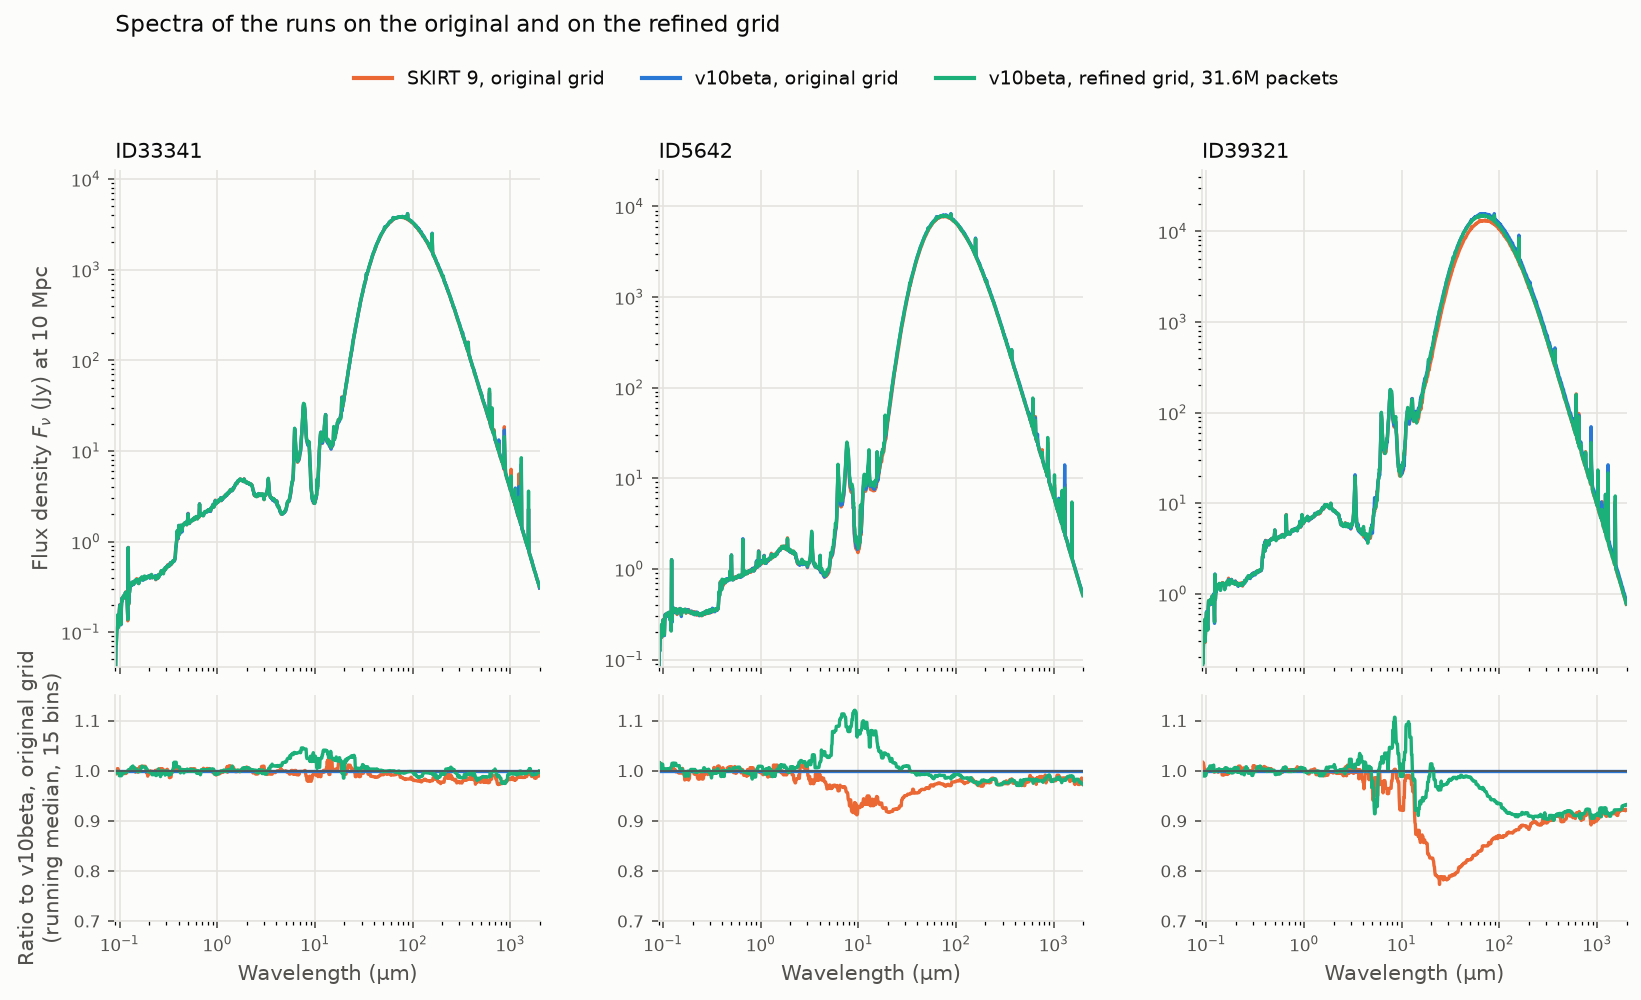
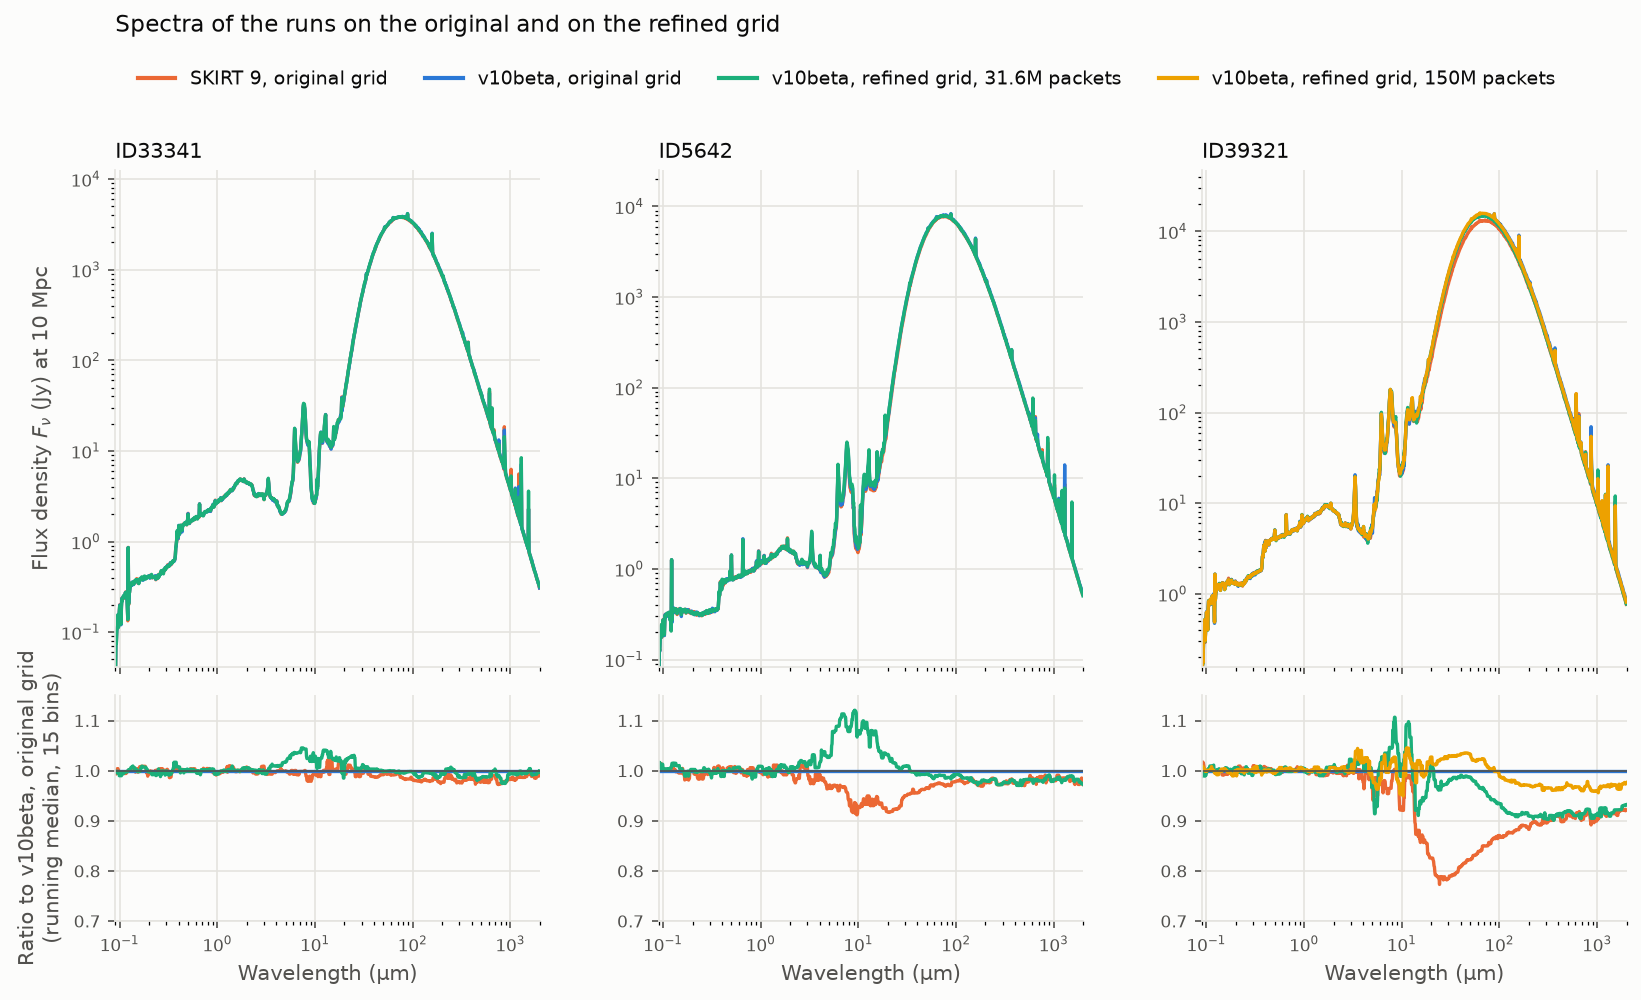
Add the finished 150-million-packet run to the dust self-heating note
The run of ID39321 on the refined grid with 150 million photon packets per
iteration ended after 60 iterations without convergence: its deficit levels
off at 1.3%, a bias rather than slow convergence. The Results chapter gives
the final values, an extrapolation of the packets needed, the dust
temperatures, and the finding that the spectrum along the line of sight hides
the deficit; both figures are regenerated. The recommended settings and the
open question on averaging the tallies are updated accordingly.

diff --git a/dust-self-heating/04-results.md b/dust-self-heating/04-results.md
@@ -178,14 +178,18 @@ photon packets confirm that the number of packets per cell sets the level of thi
 
 With too few packets per cell, the deficit levels off while the secondary change becomes small, and
 the absorbed secondary luminosity settles too low: on the refined grid, it is still rising steeply
-with the number of packets at 150 million. On the original grid, 16 packets per cell suffice to
-converge, in 22 iterations, with an absorbed secondary luminosity 6% below that of the run with 160
-packets per cell. The refined grid needs more packets per cell than the original grid: with 17
-packets per cell, its deficit still levels off at 1.4%. The runs of ID33341 and ID5642 on the
-refined grid converge with some 9 packets per cell, but their absorbed secondary luminosity is 11%
-and 25% below that of the original grid; how much of this difference stems from the resolution
-and how much from the number of packets has not been determined. The run with 150 million packets
-was still running when this was written; its values are those of its first 34 iterations.
+with the number of packets at 150 million. The plateau is a bias rather than slow convergence:
+with 150 million packets, the mean deficit is 1.36%, 1.32%, and 1.30% over iterations 16–30, 31–45,
+and 46–60, while the absorbed secondary luminosity changes by less than 0.1% per iteration. Between
+the runs, the plateau falls by a factor of 2 to 2.4 for every threefold increase of the number of
+packets; extrapolating the last two runs, a plateau below 1% would take some 250 million packets,
+about 30 per cell. On the original grid, 16 packets per cell suffice to converge, in 22
+iterations; after 30 iterations, the absorbed secondary luminosity is 6% below that of the run
+with 160 packets per cell. The refined grid thus needs more packets per cell than the original
+grid. The runs of ID33341 and ID5642 on the refined grid converge with some 9 packets per cell,
+but their absorbed secondary luminosity is 11% and 25% below that of the original grid; how much of
+this difference stems from the resolution and how much from the number of packets has not been
+determined.
 
 ### Spectra
 
@@ -196,8 +200,20 @@ original grid, the run on the refined grid changes the spectrum between 5 and 10
 1% in total for ID33341 and ID5642, with up to 4% and 10% more emission in the mid-infrared, around
 10 µm, presumably from warm dust near the sources that the original grid averages over larger
 cells. For ID39321, the run with 31.6 million packets is 3.4% fainter between 5 and 1000 µm, mostly
-beyond 100 µm, which reflects its deficit of about 5%. The figure will be updated with the run with
-150 million packets.
+beyond 100 µm, which reflects its deficit of about 5%. The run with 150 million packets is 1.7%
+brighter: 2 to 3% brighter between 20 and 70 µm, and 1 to 4% fainter beyond 100 µm. The emission
+beyond 100 µm follows the temperature of the bulk of the dust: the mass-weighted mean of the
+indicative dust temperature is 70.9 K and 74.3 K for the runs with 31.6 and 150 million packets,
+against 76.2 K on the original grid.
+
+The spectrum of ID39321 does not reveal the deficit of the runs on the refined grid. Over all
+directions, the escaping dust luminosity of the run with 150 million packets is 1.8% below that of
+the run on the original grid, in line with the difference of their deficits, whereas the flux
+between 5 and 1000 µm along the line of sight is 1.7% higher; for the run with 31.6 million
+packets, both are lower, by 5.7% and 3.4%. The refined grid apparently sends a larger share of the
+dust emission along the z axis, the axis with the lowest optical depth of this galaxy. For ID33341
+and ID5642, the two ratios agree within 0.4%. The luminosity deficit, logged and recorded by the
+history probe, rather than the spectrum, therefore shows whether a run has converged.
 
 ## Performance
 

diff --git a/dust-self-heating/02-features.md b/dust-self-heating/02-features.md
@@ -304,14 +304,14 @@ For models with strong dust self-heating, the recommended settings are as follow
   secondary change becomes small, so that the loop runs to its maximum number of iterations and
   ends with a warning. The solution is then biased: the absorbed secondary luminosity settles too
   low, and the escaping dust luminosity stays short of the absorbed primary luminosity by the
-  deficit. In the tests, the level of the plateau fell by a factor of two or more for every
-  threefold increase of the number of packets, and the number of packets per cell needed to bring
-  it below the default criterion grew with the resolution of the grid: some 15 packets per cell
-  sufficed on a coarse grid, whereas a grid of the same model with 40 times more cells still
-  leveled off at a deficit of 1.4% with that number. A finer spatial grid therefore needs more
-  photon packets, even more than in proportion to its number of cells. Even when the deficit meets
-  the criterion, the absorbed secondary luminosity can still be several percent too low, although
-  the observed spectrum is then hardly affected;
+  deficit. In the tests, the level of the plateau fell by a factor of 2 to 2.4 for every threefold
+  increase of the number of packets, and the number of packets per cell needed to bring it below
+  the default criterion grew with the resolution of the grid: some 15 packets per cell sufficed on
+  a coarse grid, whereas a grid of the same model with 40 times more cells still leveled off at a
+  deficit of 1.3% with that number. A finer spatial grid therefore needs more photon packets, even
+  more than in proportion to its number of cells. Even when the deficit meets the criterion, the
+  absorbed secondary luminosity can still be several percent too low, although the observed
+  spectrum is then hardly affected;
 - a maximum of 40–60 secondary emission iterations, which leaves room for the convergence criteria
   to stop the loop;
 - a history probe, which records the convergence quantities of each iteration, and thus shows which

diff --git a/dust-self-heating/05-open-questions.md b/dust-self-heating/05-open-questions.md
@@ -47,12 +47,12 @@ reduce their noise, using an exponentially weighted or running average. With abo
 packets per spatial cell in each iteration (31.6 million packets on 200 000 cells), the remaining
 noise in the deficit was about ±0.5% per iteration, without any sign of instability, so the proposal
 does not average. With few packets per cell, however, the deficit levels off above the criterion:
-on a spatial grid of 8.6 million cells for the same galaxy, at 21%, 11%, and 5% for 0.4, 1.2, and
-3.7 packets per cell, while the absorbed secondary luminosity settles too low. Whether averaging the
-tallies would lower this plateau depends on its cause, which is not yet known: averaging reduces the
-noise of the transfer fractions, but not that of the radiation field in each cell, from which the
-emission spectra are calculated. Averaging would add memory for an extra transfer matrix and would
-complicate the partition, which changes from one iteration to the next.
+on a spatial grid of 8.6 million cells for the same galaxy, at 21%, 11%, 5%, and 1.3% for 0.4,
+1.2, 3.7, and 17 packets per cell, while the absorbed secondary luminosity settles too low. Whether
+averaging the tallies would lower this plateau depends on its cause, which is not yet known:
+averaging reduces the noise of the transfer fractions, but not that of the radiation field in each
+cell, from which the emission spectra are calculated. Averaging would add memory for an extra
+transfer matrix and would complicate the partition, which changes from one iteration to the next.
 
 **Region coordinates.** The regions are formed from the ratio of secondary to primary absorption
 and the absorption per unit dust mass. Alternatives are the entries of the cell library, which
